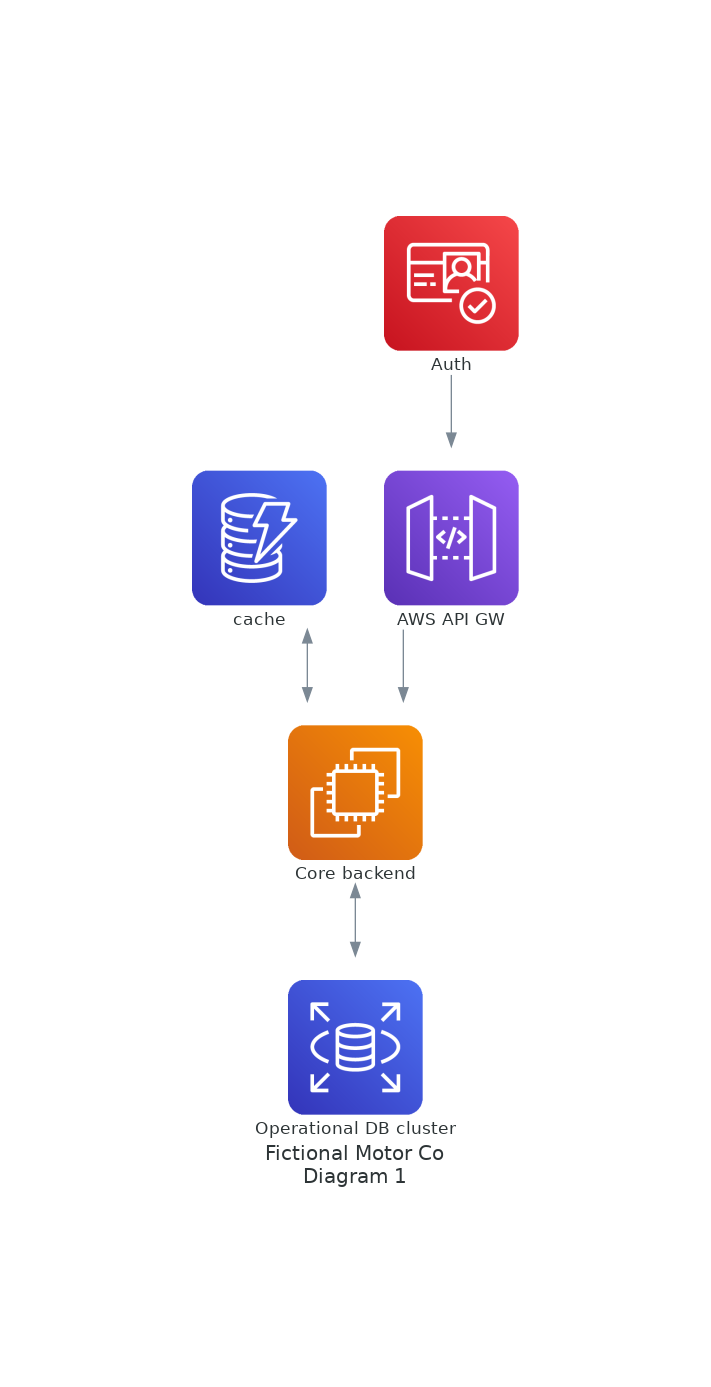
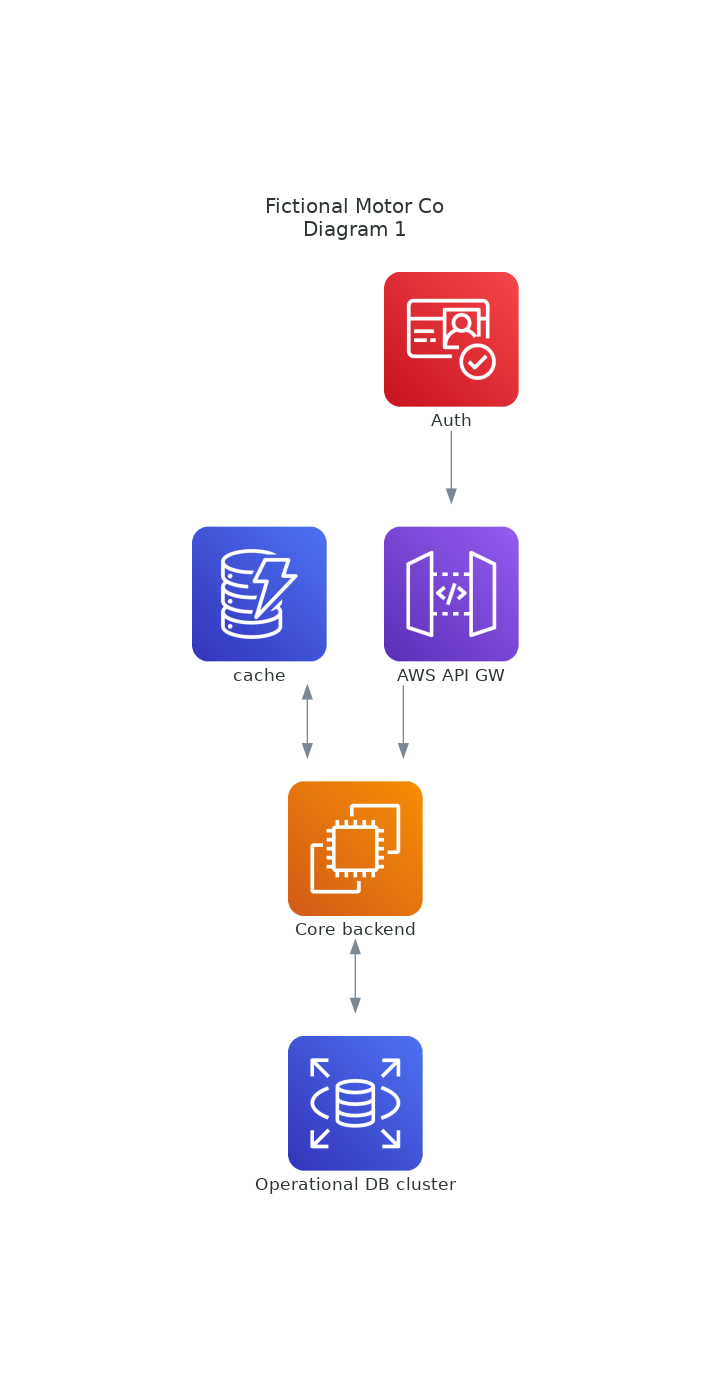
more work on diagrams

Changed region(s): [[0.2475, 0.124, 0.7426, 0.8681]]

diff --git a/docs/diagrams/iter2.py b/docs/diagrams/iter2.py
@@ -12,23 +12,26 @@ BASE_DIR = Path(__file__).resolve().parent
 
 with Diagram("Fictional Motor Co\nDiagram 2",
              filename=str(BASE_DIR / "architecture2"),
-             show=False, direction="BT", outformat="png"):
+             show=False, direction="BT", outformat="png",
+             graph_attr=dict(labelloc="t", curvestyles="ortho")):
 
     gw = APIGateway("API GW")
     gw << Cognito("Auth")
 
-    with Cluster("SalesWindow µs", direction="BT"):
-        be2 = EC2("BE")
-        dynamo = Dynamodb("Sales\nTimeSeries")
-        dynamo << Edge() >> be2 << Edge(label="/models\n/sales") << gw
+    with Cluster("", graph_attr=dict(pencolor="#FFFFFF", bgcolor=None)):
 
-    with Cluster("Core", direction="BT"):
-        backend = EC2("Core backend")
+        with Cluster("Core", direction="BT"):
+            backend = EC2("Core backend")
 
-        with Cluster("Operational DB cluster", direction="LR") as db:
-            units = [
-                RDS("master RW"), RDS("read\nreplica 1"), RDS("read\nreplica 2")
-                ]
-        units << Edge() >> backend << Edge(label="/model/<pk>/sales") << gw
+            with Cluster("Operational DB cluster", direction="LR") as db:
+                units = [
+                    RDS("master RW"), RDS("read\nreplica 1"), RDS("read\nreplica 2")
+                    ]
+            units << Edge() >> backend << Edge(label="/models\n/sales") << gw
 
-    backend >> Edge(label="materialize", style="dashed") >> be2
+        with Cluster("SalesWindow µs", direction="BT"):
+            be2 = EC2("BE")
+            dynamo = Dynamodb("Sales\nTimeSeries")
+            dynamo << Edge() >> be2 << Edge(label="/model/<pk>/sales") << gw
+
+        # backend - Edge(label="materialize", style="dashed") - be2

diff --git a/docs/diagrams/iter1.py b/docs/diagrams/iter1.py
@@ -10,7 +10,8 @@ BASE_DIR = Path(__file__).resolve().parent
 
 with Diagram("Fictional Motor Co\nDiagram 1",
              filename=str(BASE_DIR / "architecture1"),
-             show=False, direction="BT", outformat="png"):
+             show=False, direction="BT", outformat="png",
+             graph_attr=dict(labelloc="t")):
 
     db = RDS("Operational DB cluster")
     backend = EC2("Core backend")

diff --git a/README.md b/README.md
@@ -1,19 +1,89 @@
 # Fictional Motor CO system
 
-In this document we will explain how to setup the project and work with it:
+In this document we will explain how to setup the project and work with it.
 
 - Set up the Docker environment
-- Launch the backind
+- Launch the backend
 - Make API calls using Postman
-- Launch tests per type (unitary and non unitary)
+- Launch tests per type (unitary and non=unitary)
+
+Also, we will introduce the ___ documentation we've build for this project
+
+For the implementation we will combine:
+- API Model View Controller (MVC) (or MVVM Model View ViewModel)
+  - Where Views are the endpoints 
+- HTTP REST, especially
+  - We also consider HATEOAS, #TODO json:api hyperlink 
+    but we will not implement a Level 4 maturity REST API for this prototype
+- Domain Driven Design to some degree, it is not advisable to _fight_ the framework architecture, but
+  we will split some `domain` and `infrastructure` out of the framework artifacts that are bound to be
+  separated in to transversal code - specifications, common constants and libraries
+  
+## Structure
+
+.
+├── config: general configuration, Django settings and urls config
+├── docs
+│   └── diagrams
+├── fictional: Django project with each context
+|   ├── core
+│   ├── domain
+│   ├── infra
+│   ├── sales
+│   ├── users
+│   └── vehicles
+├── scripts: scripts to set up the system
+├── staticfiles
+└── tests: Unitary and API test
+
+
+## Setup
+
+1. Create a virtualenv
+1. Install the dependencies
+```bash
+pip install -r requirments
+```
+
+## Launch test
+
+```bash
+pytest
+```
+
+It should prompt code coverage and test resulta
+
+## Documentation
 
 Further information will be in the folder `docs` including:
 
-- Architecture description
-- Architecture decisions (ADR)
-- Implementation details
+- [Domain research](docs/domain_resarch.md)
+- [Api design](docs/api_design.md)
+- [Architecture description](docs/architecture.md)
+- [Architecture decisions](docs/adr/)
+- [Implementation details](docs/process.md)
+
+## Future work
+
+This being a prototype, it lacks a lot of features that are advisable, both on the architecture and microcode side.
+To list a few:
+- Add Authenticantion
+  
+- Add Django-Admin, to have a nice backoffice
+- Use a Filter Backend for query_params
+- Add cache
+- Add a JSON:API renderer
 
 ## References
+
+Here are the reference I used the most
+
+- [Django docs](https://docs.djangoproject.com/en/3.2/ref/)
+- [Django Rest Framework](https://www.django-rest-framework.org)
+- [pytest documentation](https://docs.pytest.org/en/6.2.x/contents.html)
+- [Factory Boy documentation](https://factoryboy.readthedocs.io/en/stable/index.html)
+- [Architecture Decission Records template](https://gist.github.com/hectorcanto/1276e41fc24e8c4ee1427cd5d02bf82a#file-adr-template-md)
+
 
 ### Diagrams
 
